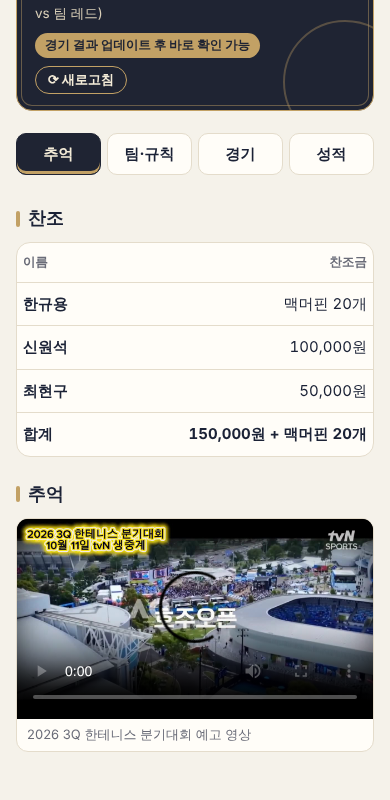
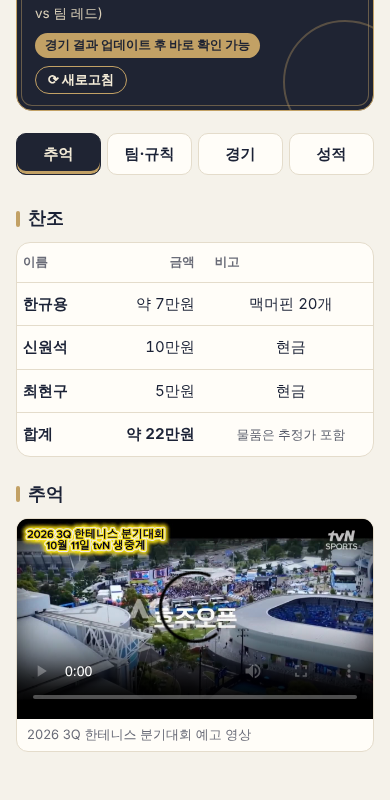
찬조 표: 이름·금액·비고 3열, 맥머핀 추정가 반영
Claude-Session: https://claude.ai/code/session_017fPTB6MD4eU5N6opqX9pvK

diff --git a/index.html b/index.html
@@ -207,10 +207,11 @@ select{font:500 15px var(--body);padding:8px 10px;border-radius:10px;border:1px 
 /* 기념사진: photos 폴더 파일명과 설명 (첫 번째 사진은 크게 표시) */
 /* 찬조: 이름과 금액(원) */
 const SPONSORS = [
-  { name: "한규용", note: "맥머핀 20개" },
-  { name: "신원석", amount: 100000 },
-  { name: "최현구", amount: 50000 },
-  // { name: "홍길동", amount: 100000 },
+  // amount: 금액(원), note: 비고(현금/물품), est: true면 추정 금액("약" 표시)
+  { name: "한규용", amount: 70000, note: "맥머핀 20개", est: true },
+  { name: "신원석", amount: 100000, note: "현금" },
+  { name: "최현구", amount: 50000, note: "현금" },
+  // { name: "홍길동", amount: 100000, note: "현금" },
 ];
 const PHOTOS = [
   { video: "photos/v01.mp4", poster: "photos/v01.jpg", cap: "2026 3Q 한테니스 분기대회 예고 영상" },
@@ -358,16 +359,17 @@ function renderSponsors(){
   const t=document.getElementById("sponsors"), none=document.getElementById("nospon");
   if(!SPONSORS.length){t.parentElement.hidden=true;none.hidden=false;return}
   t.parentElement.hidden=false;none.hidden=true;
-  const won=n=>Number(n).toLocaleString("ko-KR")+"원";
+  // 만원 단위 표시 (만원 미만은 원 단위로)
+  const man=n=>{n=Number(n)||0; return n%10000===0? (n/10000).toLocaleString("ko-KR")+"만원" : n.toLocaleString("ko-KR")+"원";};
   // 같은 사람이 여러 번 내면 한 줄로 합산
   const m=new Map();
-  for(const x of SPONSORS){const r=m.get(x.name)||{name:x.name,amount:0,notes:[]};
-    if(x.amount)r.amount+=Number(x.amount); if(x.note)r.notes.push(x.note); m.set(x.name,r);}
-  const rows=[...m.values()].map(r=>({name:r.name,amount:r.amount,note:r.notes.join(", ")}));
-  const total=rows.reduce((a,x)=>a+Number(x.amount||0),0);
-  t.innerHTML=`<tr><th style="text-align:left">이름</th><th style="text-align:right">찬조금</th></tr>`+
-    rows.map(x=>`<tr><td class="pname">${x.name}</td><td style="text-align:right">${[x.amount?won(x.amount):"",x.note].filter(Boolean).join(" + ")}</td></tr>`).join("")+
-    `<tr><td class="pname">합계</td><td style="text-align:right"><b>${[won(total),...rows.filter(x=>x.note).map(x=>x.note)].join(" + ")}</b></td></tr>`;
+  for(const x of SPONSORS){const r=m.get(x.name)||{name:x.name,amount:0,notes:[],est:false};
+    r.amount+=Number(x.amount||0); if(x.note&&!r.notes.includes(x.note))r.notes.push(x.note); if(x.est)r.est=true; m.set(x.name,r);}
+  const rows=[...m.values()];
+  const total=rows.reduce((a,x)=>a+x.amount,0), anyEst=rows.some(x=>x.est);
+  t.innerHTML=`<tr><th style="text-align:left">이름</th><th style="text-align:right">금액</th><th style="text-align:left;padding-left:14px">비고</th></tr>`+
+    rows.map(x=>`<tr><td class="pname">${x.name}</td><td style="text-align:right;white-space:nowrap">${x.est?"약 ":""}${man(x.amount)}</td><td style="text-align:left;padding-left:14px">${x.notes.join(", ")}</td></tr>`).join("")+
+    `<tr><td class="pname">합계</td><td style="text-align:right;white-space:nowrap"><b>${anyEst?"약 ":""}${man(total)}</b></td><td style="text-align:left;padding-left:14px;font-size:.85em;opacity:.75">${anyEst?"물품은 추정가 포함":""}</td></tr>`;
 }
 function renderPhotos(){
   const box=document.getElementById("photos");
